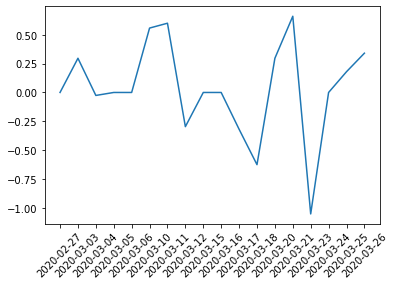
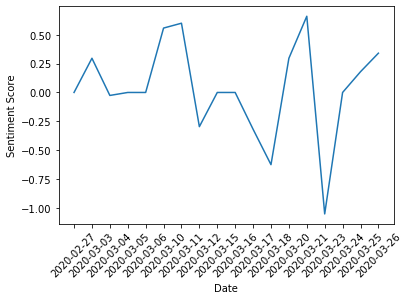
Edited axis labels

Changed region(s): [[0.0, 0.0, 0.9722, 0.979], [0.0304, 0.5594, 0.1519, 0.6434], [0.0304, 0.0839, 0.1519, 0.1399]]

diff --git a/_posts/2020-03-28-Sentiment Analysis as a Trading Indicator.md b/_posts/2020-03-28-Sentiment Analysis as a Trading Indicator.md
@@ -586,6 +586,8 @@ We can now plot the sentiment as a time series:
 ```python
 # Sort items from dict in ascending time and plot
 date,sentiment = zip(*sorted(boeing_sentiment.items()))
+plt.xlabel('Date')
+plt.ylabel('Sentiment Score')
 plt.xticks(rotation=45)
 plt.plot(date,sentiment)
 ```
@@ -615,6 +617,8 @@ stock_info['date'] = pd.to_datetime(stock_info['date'], format="%Y/%m/%d")
 
 date = stock_info['date']
 price = stock_info['close']
+plt.xlabel('Date')
+plt.ylabel('Share Price')
 plt.xticks(rotation=45)
 plt.plot(date, price, color='red')
 ```
